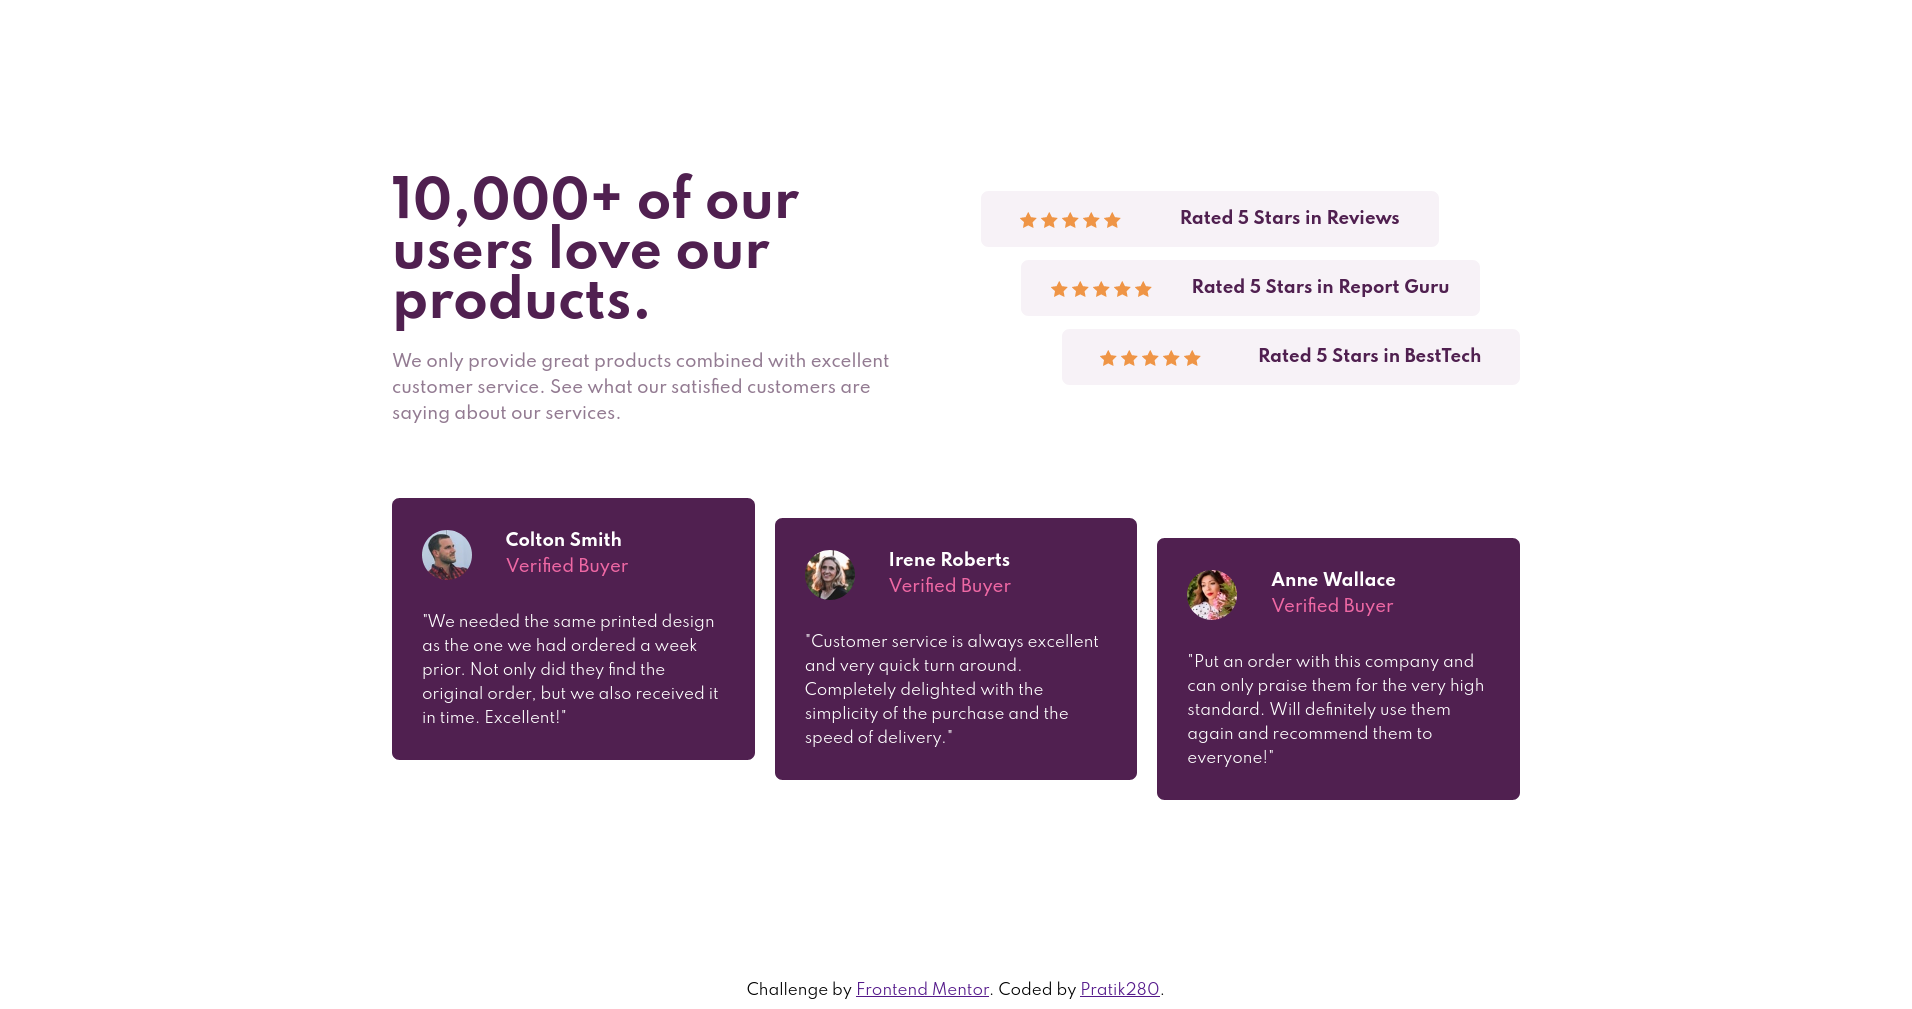
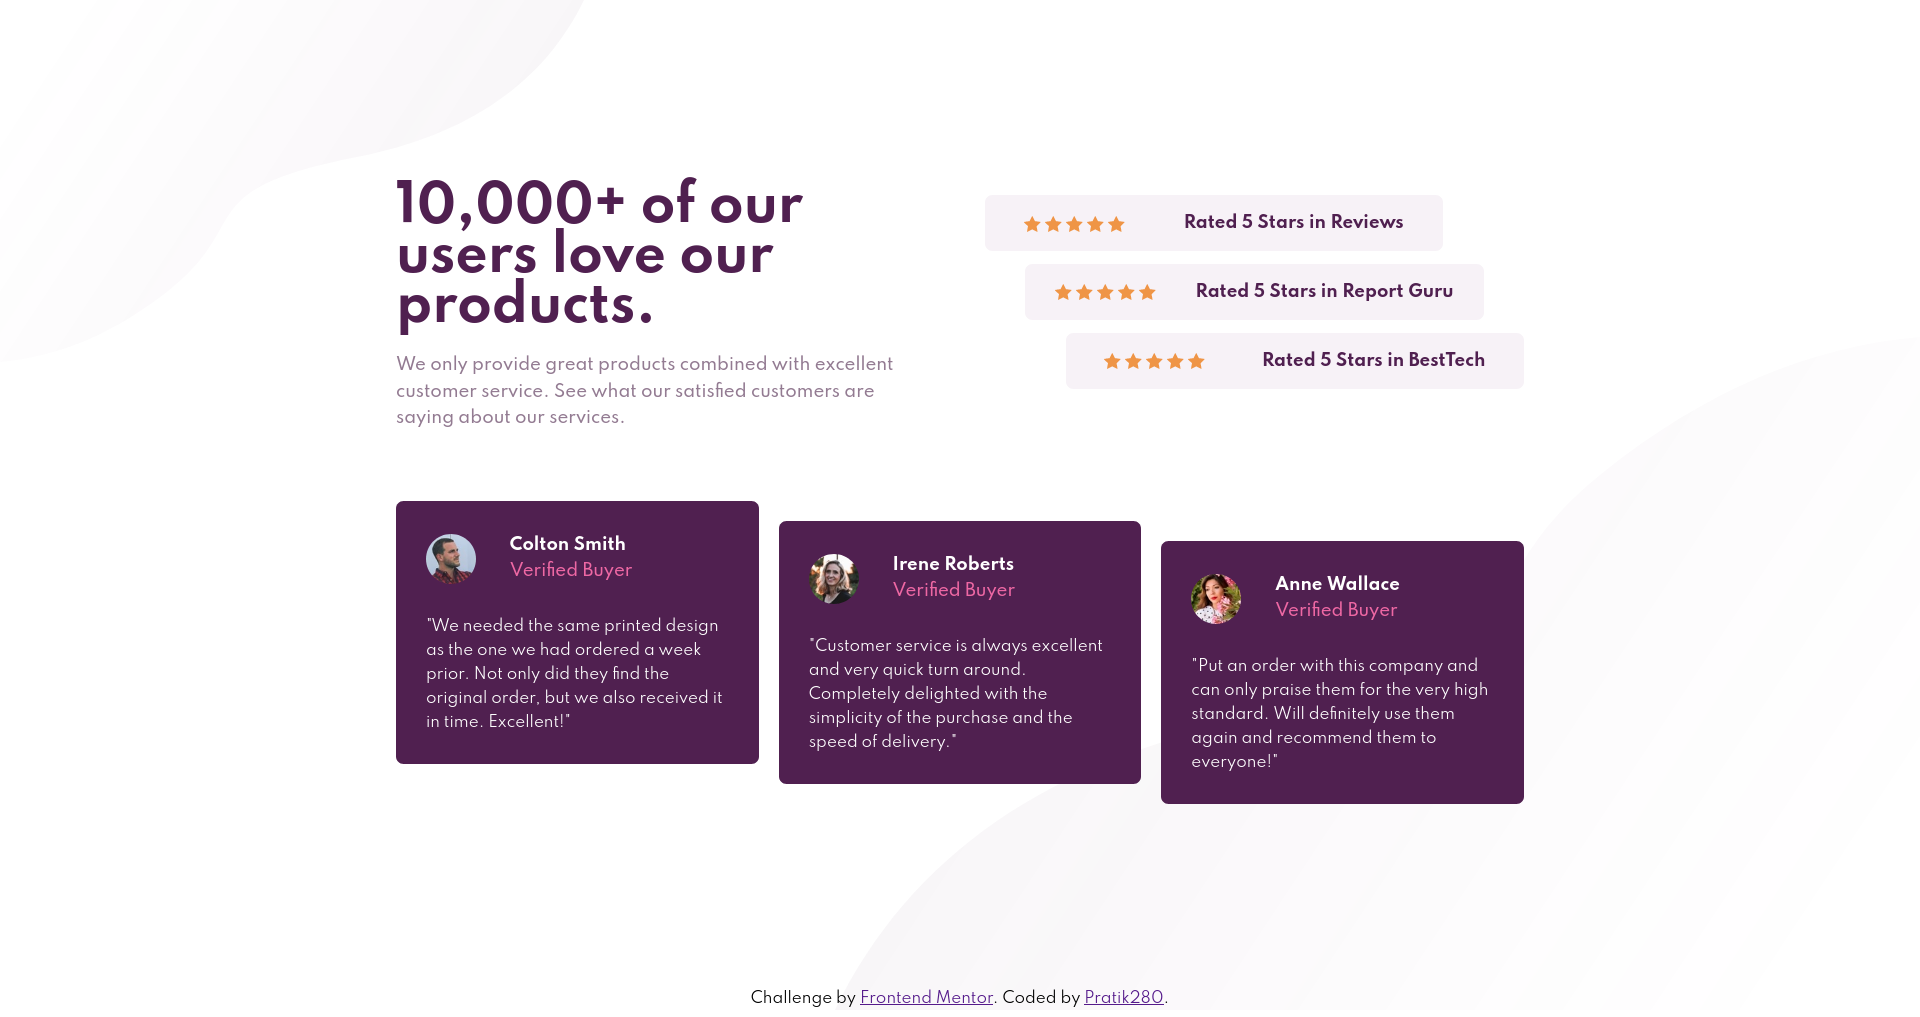
bg-image

diff --git a/style.css b/style.css
@@ -92,6 +92,28 @@ header p{
   color: var(--white);
 }
 
+/* ==== STYLING BACKGROUND ==== */
+body{
+  background-image: 
+    url("images/bg-pattern-top-mobile.svg"),
+    url("images/bg-pattern-bottom-mobile.svg");
+    background-position:
+      top left,
+      bottom right;
+  background-repeat: no-repeat;
+}
+
+@media (min-width: 40em){
+  body{
+    background-image: 
+      url("images/bg-pattern-top-desktop.svg"),
+      url("images/bg-pattern-bottom-desktop.svg");
+      background-position:
+        top left,
+        bottom right;
+    background-repeat: no-repeat;
+  }
+}
 /* ==== STYLING HEADER ==== */
 
 header{
